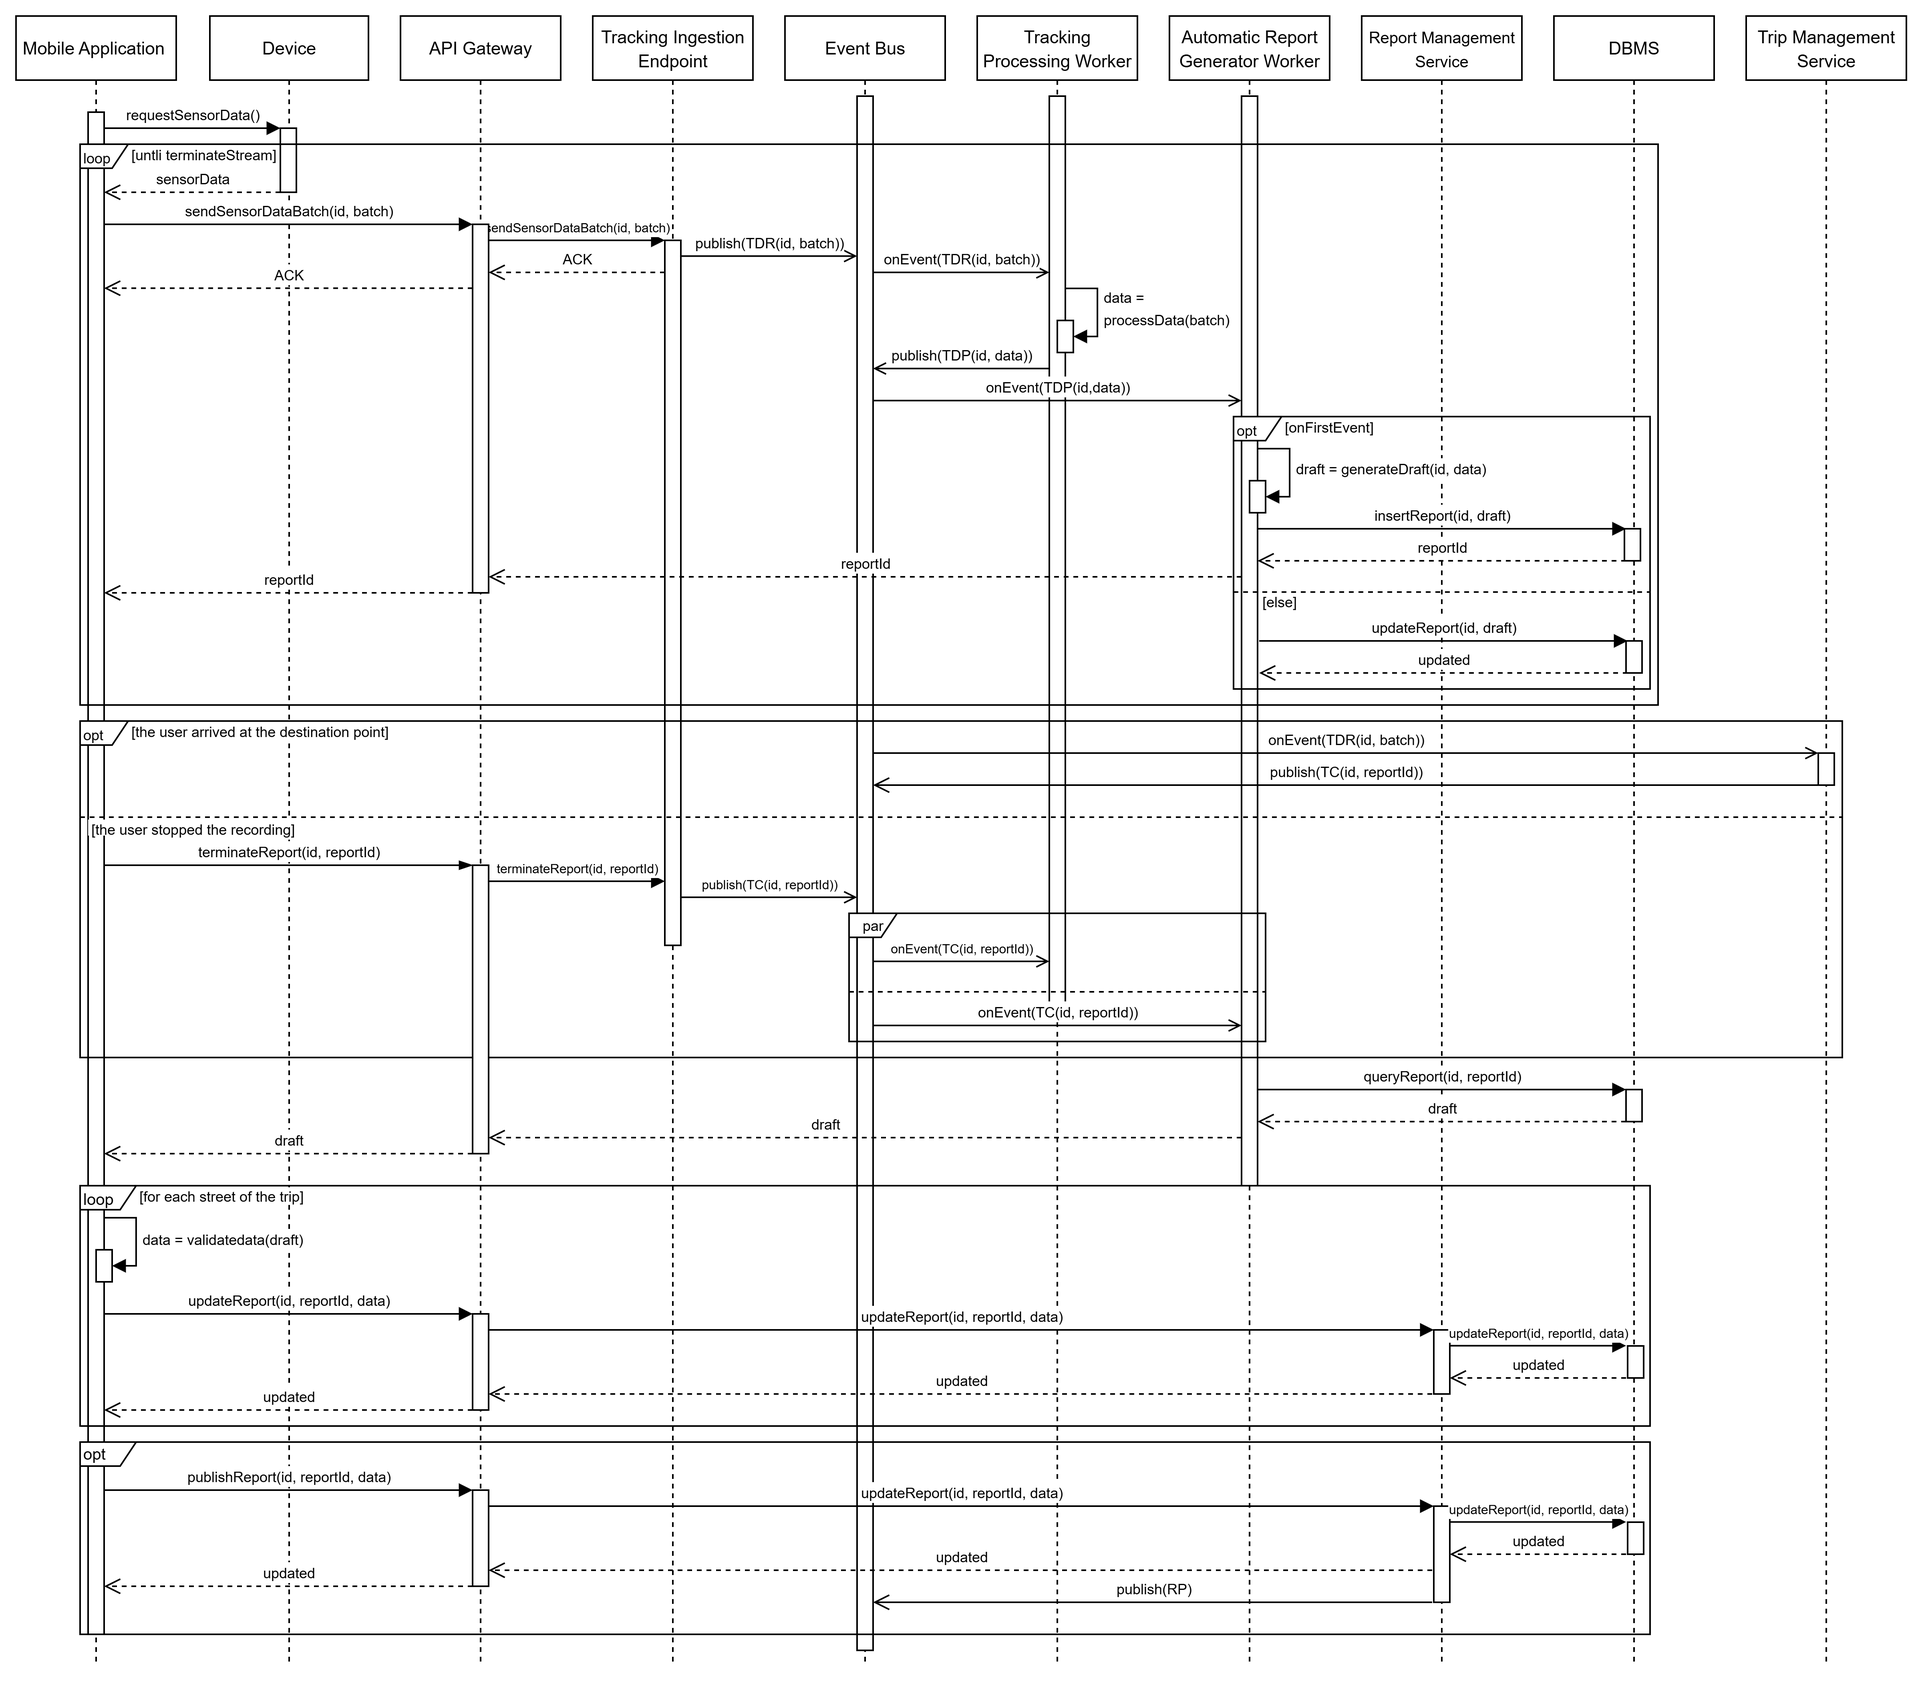
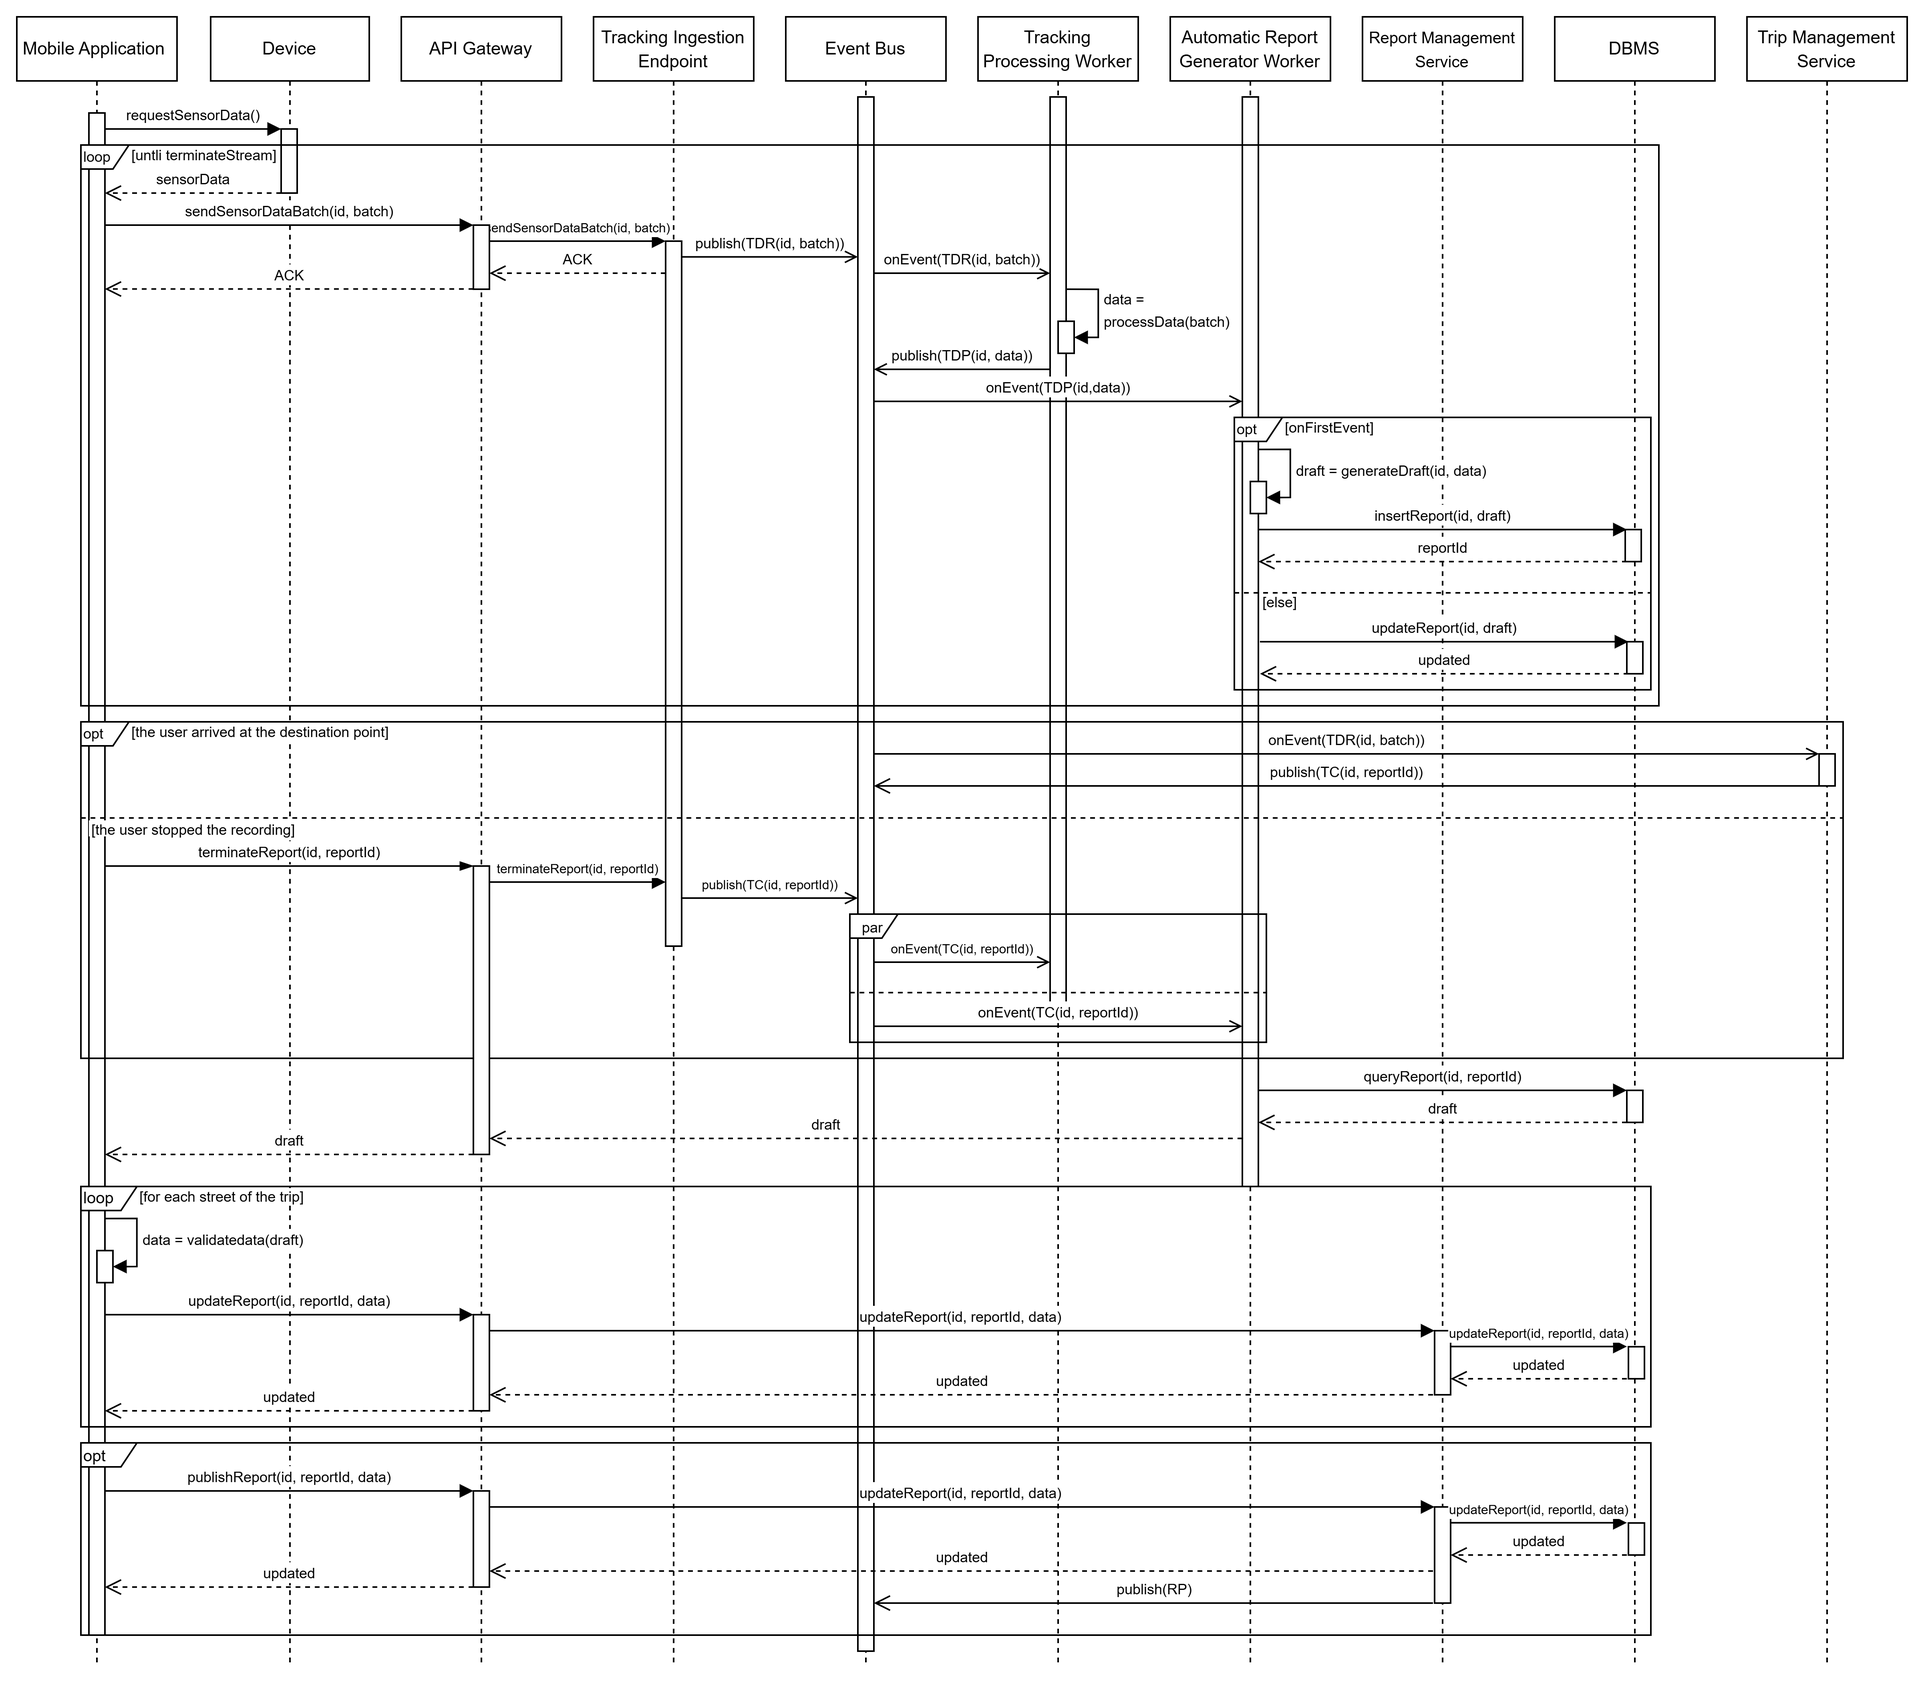
Ultimo push

diff --git a/DD/source/sections/5_implementation_integration_test_plan.tex b/DD/source/sections/5_implementation_integration_test_plan.tex
@@ -1,1 +1,105 @@
 \section{Implementation, Integration \& Test Plan}
+\subsection{Implementation Plan}
+
+The system will be implemented using a thread strategy, which ensures that a core platform feature is fully functional before moving to the next one, delivering at each step of the implementation an intermediate product stakeholders can evaluate and validate. This strategy requires the identification of the system threads to be incrementally implemented and tested, based on the requirements outlined in the RASD.
+
+\paragraph{T1: User Management} This thread allows users to create a new account via email and password, login to an existing one using their credentials, update their personal information, update their preferences, for instance sensor or GPS acquisition, and delete their account.
+
+\paragraph{T2: Path Exploration} This thread allows the user to browse all the biking paths in a certain area, or only the ones connecting a departure and destination point, ranked by their status, and filtered based on their requirements, if any. The users can also visualize all the details regarding a given bike path, like obstacles along the way.
+
+\paragraph{T3: Trip Management} This thread allows the user to visualize their global statistics, including total travelled distance, average speed and more, save bike paths as planned trips and visualize all their completed trips, with the relative statistics.
+
+\paragraph{T4: Reporting} This thread allows the user to manage the lifecycle of manual and automatic reports obstacles. More specifically, allows the user to change the status of manual reports from \code{draft} to \code{published} and the status of automatic reports from \code{draft} to \code{validated} and then \code{published}.
+
+\paragraph{T5: Alert Management} This thread allows the user to change their notification preferences and receive notifications about adverse weather or road conditions regarding their planned trips. 
+
+\paragraph{T6: Integration Adapter} This thread has as its only objective to test the communication between the platform and the external map and weather services.
+
+\paragraph{T7: Tracking Pipeline} This thread has as its only objective to test the interaction with the device of the user and the management of sensor and GPS data.
+
+\subsection{Component Integration and Testing}
+
+This testing plan follows an incremental strategy, where features are introduced and validated in stages. Each phase involves testing new components or extending the evaluation of previously integrated modules. We assume that the DBMS is fully functional at each step, so it's not depicted in this plan. Furthermore, external services are included in the diagram as we can test the communication between them and the adapters.
+
+\begin{figure}[H]
+    \centering
+    \includegraphics[width=0.9\linewidth]{DD//source//images//diagrams/test_plan_diagram.png}
+    \caption{Test Plan Diagram.}
+    \label{fig:test_plan_diagram}
+\end{figure}
+
+\paragraph{First Incremental Test}
+This increment focuses on validating the core user onboarding functionalities, which are a prerequisite for accessing all other system features. The tested functionalities include user registration, authentication, profile data updates, and the management of consent and tracking preferences.
+From an architectural perspective, this increment primarily involves: 
+\begin{itemize}
+    \item the client, which collects user input and initiates the interactions
+    \item the API Gateway, which acts as the entry point and routes requests
+    \item the User Management Component, which handles identity management, credential validation, profile persistence, and consent storage in compliance with GDPR requirements.
+\end{itemize}
+
+At the end of this increment, the system provides a fully functional and stable user management flow that can be used as a foundation for subsequent increments.
+
+\paragraph{Second Incremental Test}
+This increment validates the integration of external map services used to support path visualization within the system. The tested functionalities include the rendering of map views associated with bike paths and the correct handling of failure scenarios, such as timeouts or unavailability of the external map service, through fallback mechanisms.
+
+The components involved in this increment are
+\begin{itemize}
+    \item the client, responsible for displaying the map to the user
+    \item the API Gateway, which routes the requests
+    \item the Path Exploration Service, which provides the path data to be visualized
+    \item the Map \& Weather Integration component, which encapsulates communication with the external map service and enforces resilience policies.
+\end{itemize}
+
+This increment ensures that map-related features are robust and correctly isolated from external service failures before extending the system with additional context-aware functionalities.
+
+\paragraph{Third Incremental Test}
+This increment focuses on validating the core path exploration functionalities that do not depend on external services.
+
+From an architectural standpoint, the client initiates the exploration requests, optionally involving the User Management Component when the user is authenticated, although these functionalities are also accessible to non-registered users. Requests are routed through the API Gateway to the Path Exploration Service, which retrieves and processes path data from the Persistence Store.
+
+This increment ensures that the internal logic for path retrieval, filtering, and presentation is correct and stable before introducing contextual enrichments such as maps and weather information.
+
+\paragraph{Fourth Incremental Test}
+This increment validates the core functionalities related to trip management, focusing on trip planning and lifecycle handling. The tested features include the creation and storage of planned trips, the management of trip state transitions from planned to ongoing and completed, and the visualization of completed trips in the user’s trip history.
+
+At the architectural level, the client allows the user to select a path and initiate trip-related actions, while the API Gateway routes the requests to the appropriate back-end services. The User Management Component ensures that only authenticated users can access these functionalities. The Path Exploration Service provides the selected path information required for planning, and the Trip Management Service manages trip persistence, state transitions, and history retrieval through interactions with the Persistence Store.
+
+This increment establishes a stable foundation for advanced trip-related features, such as statistics computation, tracking, and reporting, which are introduced in subsequent increments.
+
+\paragraph{Fifth Incremental Test}
+This increment focuses on validating the functionalities related to trip statistics and trip history management. The tested features include the computation and visualization of performance statistics for completed trips, such as distance, duration, and average speed, as well as the soft deletion of trips from the user’s history.
+
+The client enables the user to access statistics and request trip deletion, while the API Gateway routes these requests to the Trip Management Service. This service is responsible for computing statistics based on persisted trip data, enforcing consistency by excluding soft-deleted trips from aggregated views, and updating the Persistence Store accordingly.
+
+By completing this increment, the system ensures that historical trip data is correctly managed and that performance analytics remain accurate and consistent.
+
+\paragraph{Sixth Incremental Test}
+This increment validates the tracking pipeline responsible for managing sensor and GPS data generated by the user’s device during a trip. The tested functionalities include the real-time ingestion of tracking data, its asynchronous processing, and the correct recording of trips based on the collected sensor information.
+
+Architecturally, the User Device sends tracking data to the Tracking Ingestion Endpoint, which immediately publishes tracking events to the Event Bus without performing processing or persistence. The Tracking Processing Worker consumes these events, cleans and normalizes the data, and persists the processed tracking information in the Persistence Store. In parallel, the Trip Management Service updates the state of the trip (e.g., from ongoing to completed) based on tracking-related events and makes the recorded data available for subsequent statistics and reporting.
+
+This increment ensures that continuous data streams are handled efficiently without impacting synchronous system operations, establishing the foundation for automatic reporting and alert evaluation.
+
+\paragraph{Seventh Incremental Test}
+This increment focuses on validating the reporting functionalities that allow the system to collect, manage, and publish information about bike paths. The tested features include the automatic generation of report drafts based on recorded tracking data, the validation of automatically generated reports by the user, the manual creation of reports, and the publication of validated reports.
+
+From an architectural perspective, the Tracking Pipeline provides the processed tracking data required for automatic report generation. The Auto Report Generator Worker creates report drafts asynchronously, while the Reporting component manages the report lifecycle, including validation and publication. Once a report is published, the Path Exploration Service is updated with the new path-related information (e.g., obstacles or hazards), ensuring that the inventory reflects the most recent and reliable data.
+
+This increment ensures that reporting workflows are correctly integrated with both tracking and path exploration, enabling accurate enrichment of path information and supporting subsequent alert evaluation.
+
+\paragraph{Eighth Incremental Test}
+This increment validates the alert management functionalities related to obstacle detection and contextual risk evaluation. The tested features include the evaluation of newly published reports, the assessment of weather conditions impacting planned trips, and the delivery of alert notifications to affected users.
+
+At the architectural level, the Reporting component publishes events when new reports are validated and published. These events, together with contextual updates such as weather information, are consumed by the Alert Evaluation Worker, which evaluates severity thresholds and determines whether planned trips are impacted. The Trip Management Service provides information about users’ planned trips and their associated paths, allowing alerts to be targeted only to relevant users. When critical conditions are detected, the alert management logic triggers notifications in an event-driven manner, without relying on continuous polling.
+
+This increment ensures that alert evaluation and notification mechanisms are reactive, decoupled, and correctly integrated with reporting and trip management, completing the system’s support for safety-critical user notifications.
+
+\subsection{System Testing}
+The following validation and verification procedures are executed after all platform functionalities are verified:
+\begin{itemize}
+    \item Functional Testing: validates the system against the Requirement Analysis and Specification Document to ensure all business threads operate as intended.
+    \item Performance Testing: evaluates non-functional requirements to identify implementation inefficiencies that could hinder system speed or stability.
+    \item Usability Testing: focuses on accessibility and user interaction, ensuring the BBP platform remains intuitive and user-friendly for its broad audience.
+    \item Load Testing: simulates expected traffic volumes to verify that the system maintains efficiency and stability under concurrent user activity.
+    \item Stress Testing: pushes the system beyond its normal operational limits to identify breaking points and evaluate how it recovers from extreme conditions.
+\end{itemize}

diff --git a/DD/source/sections/7_references.tex b/DD/source/sections/7_references.tex
@@ -7,5 +7,5 @@ The following softwares were used to produce the RASD and DD of the Best Bike Pa
     \item Overleaf web application for document writing and rendering.
 \end{itemize}
 
-Also, generative AI models were used to refine sentences and elevate writing style inside the DD and RASD documents and to check how to model some aspects of the BBP software in UML. Also LLMs were used to overcome some difficulties with \LaTeX\hspace{1mm}  itself, as it sometimes produces cryptic error messages only oCamel programmers can understand. More specifically, the Gemini Pro and ChatGPT models were used, but all the thinking process and the final design and implementation decisions were made by humans. All the outputs of these tools were verified, further refined and integrated with the documents.
+Also, generative AI models were used to refine sentences and elevate writing style inside the DD and RASD documents and to check how to model some aspects of the BBP software in UML. Also LLMs were used to overcome some difficulties with \LaTeX\hspace{1mm}  itself, as it sometimes produces cryptic error messages only OCaml programmers can understand. More specifically, the Gemini Pro and ChatGPT models were used, but all the thinking process and the final design and implementation decisions were made by humans. All the outputs of these tools were verified, further refined and integrated with the documents.
 

diff --git a/DD/source/sections/2_architectural_design.tex b/DD/source/sections/2_architectural_design.tex
@@ -59,7 +59,7 @@ The centralized data tier simplifies consistency requirements, such as ensuring 
 \end{figure}
 
 \subsection{Component View}
-As already mentioned in the previous section, the BBP system adopts a 3-tier architecture, where the application layer is composed of micro-service components interacting with each other and with external services. 
+As already mentioned in the previous section, the BBP system adopts a 3-tier architecture, where the application layer is composed of micro-service components interacting with each other and with external services.
 
 \subsubsection{Front-end Components}
 \paragraph{Mobile Application}

diff --git a/DD/source/sections/1_introduction.tex b/DD/source/sections/1_introduction.tex
@@ -29,6 +29,7 @@ The system interacts with external weather services to retrieve environmental da
 \subsubsection{Abbreviations}
 \begin{itemize}
     \item G: goal.
+    \item T: thread.
     \item WP: World Phenomena.
     \item SP: Shared Phenomena.
     \item TDR: Tracking Data Received.
